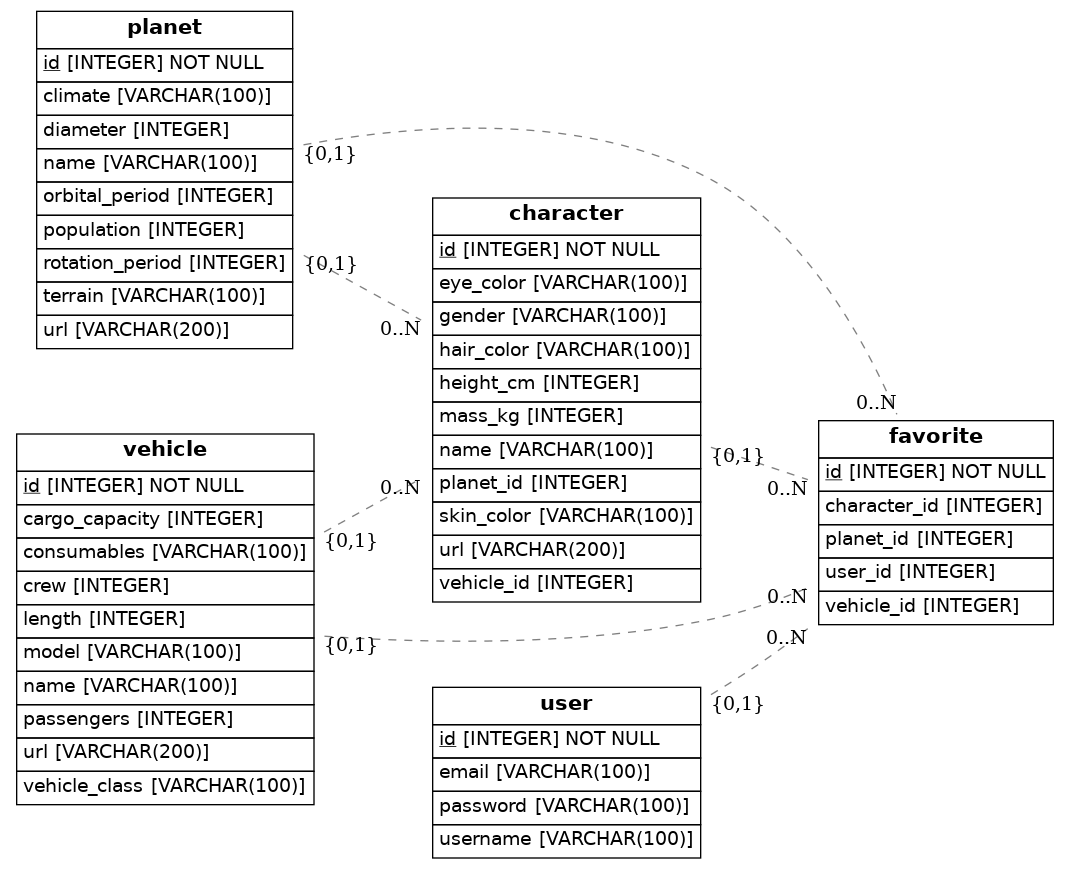
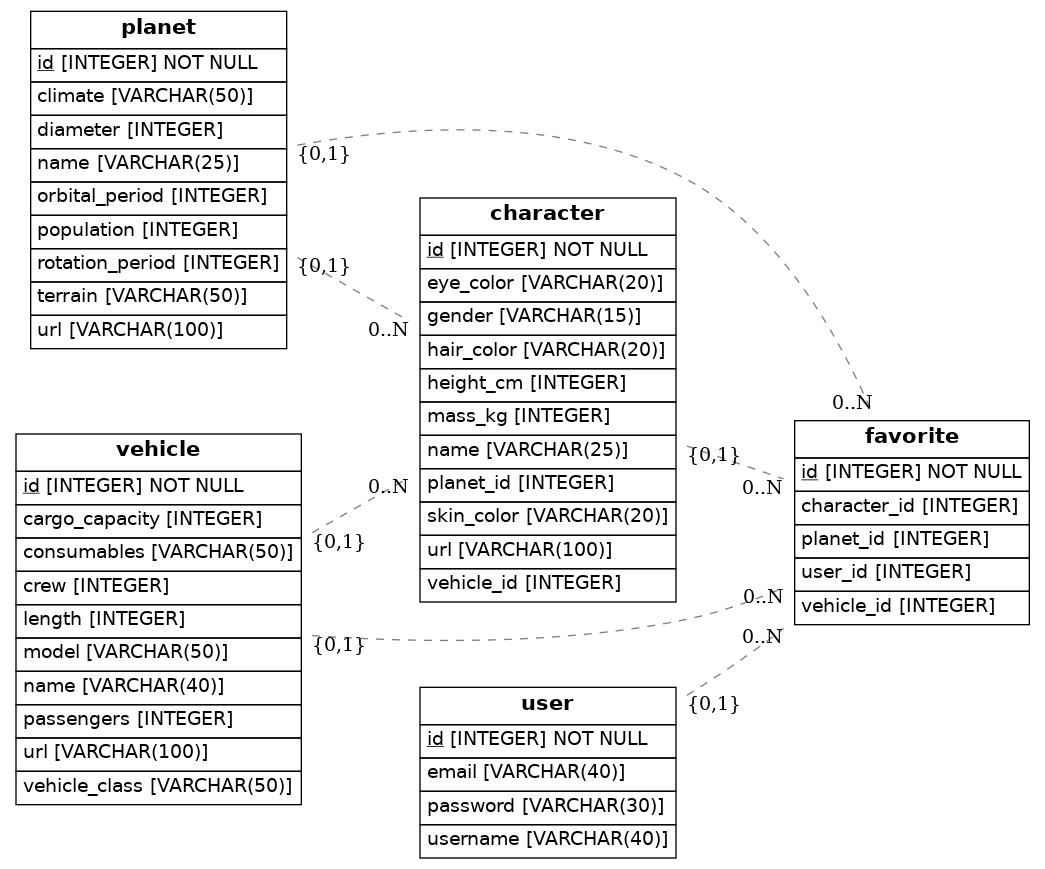
final version

diff --git a/src/models.py b/src/models.py
@@ -8,59 +8,65 @@ from eralchemy2 import render_er
 
 Base = declarative_base()
 
-class Character(Base):
-    __tablename__ = 'character'
-    id = Column(Integer, primary_key=True)
-    name = Column(String(100))
-    gender = Column(String(100))
-    height_cm = Column(Integer)
-    mass_kg = Column(Integer)
-    eye_color = Column(String(100))
-    hair_color = Column(String(100))
-    skin_color = Column(String(100))
-    url = Column(String(200), unique=True)
-    planet_id = Column(Integer, ForeignKey('planet.id'))
-    vehicle_id = Column(Integer, ForeignKey('vehicle.id'))
-
 class Planet(Base):
     __tablename__ = 'planet'
     id = Column(Integer, primary_key=True)
-    name = Column(String(100))
+    name = Column(String(25))
     population = Column(Integer)
-    climate = Column(String(100))
-    terrain = Column(String(100))
+    climate = Column(String(50))
+    terrain = Column(String(50))
     diameter = Column(Integer)
     orbital_period = Column(Integer)
     rotation_period = Column(Integer)
-    url = Column(String(200), unique=True)
+    url = Column(String(100), unique=True)
 
 class Vehicle(Base):
     __tablename__ = 'vehicle'
     id = Column(Integer, primary_key=True)
-    name = Column(String(100))
-    model = Column(String(100))
+    name = Column(String(40))
+    model = Column(String(50))
     passengers = Column(Integer)
     length = Column(Integer)
     crew = Column(Integer)
     cargo_capacity = Column(Integer)
-    url = Column(String(200), unique=True)
-    consumables = Column(String(100))
-    vehicle_class = Column(String(100))
+    url = Column(String(100), unique=True)
+    consumables = Column(String(50))
+    vehicle_class = Column(String(50))
+
+class Character(Base):
+    __tablename__ = 'character'
+    id = Column(Integer, primary_key=True)
+    name = Column(String(25))
+    gender = Column(String(15))
+    height_cm = Column(Integer)
+    mass_kg = Column(Integer)
+    eye_color = Column(String(20))
+    hair_color = Column(String(20))
+    skin_color = Column(String(20))
+    url = Column(String(100), unique=True)
+    planet_id = Column(Integer, ForeignKey('planet.id'))
+    planet = relationship(Planet)
+    vehicle_id = Column(Integer, ForeignKey('vehicle.id'))
+    vehicle = relationship(Vehicle)
 
 class User(Base):
     __tablename__ = 'user'
     id = Column(Integer, primary_key=True)
-    email = Column(String(100))
-    username = Column(String(100))
-    password = Column(String(100))
+    email = Column(String(40))
+    username = Column(String(40))
+    password = Column(String(30))
 
 class Favorite(Base):
     __tablename__ = 'favorite'
     id = Column(Integer, primary_key=True)
     user_id = Column(Integer, ForeignKey('user.id'))
+    user = relationship(User)
     character_id = Column(Integer, ForeignKey('character.id'))
+    character = relationship(Character)
     planet_id = Column(Integer, ForeignKey('planet.id'))
+    planet = relationship(Planet)
     vehicle_id = Column(Integer, ForeignKey('vehicle.id'))
+    vehicle = relationship(Vehicle)
 
     def to_dict(self):
         return {}
